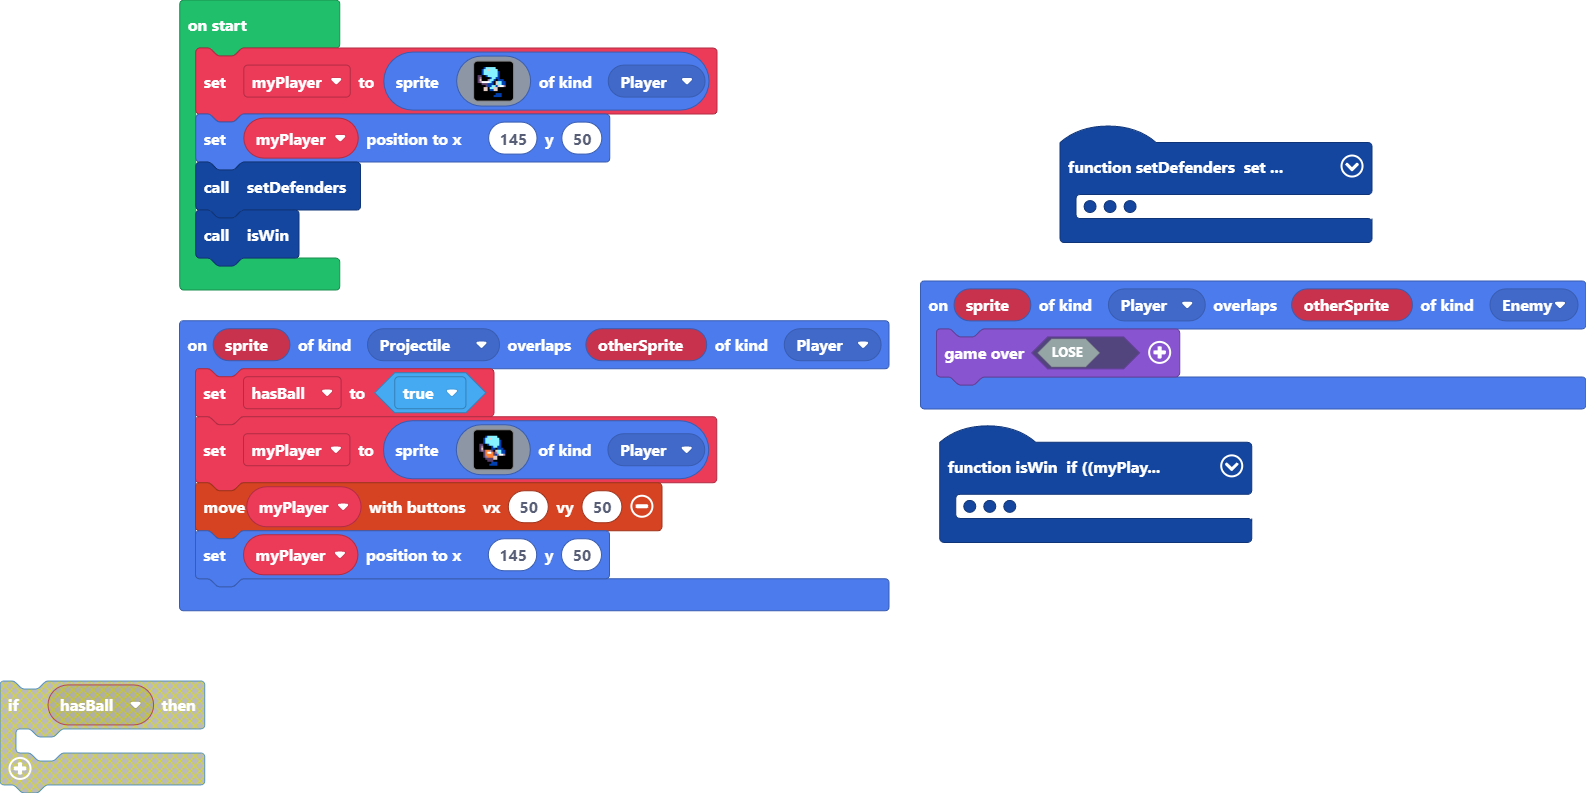
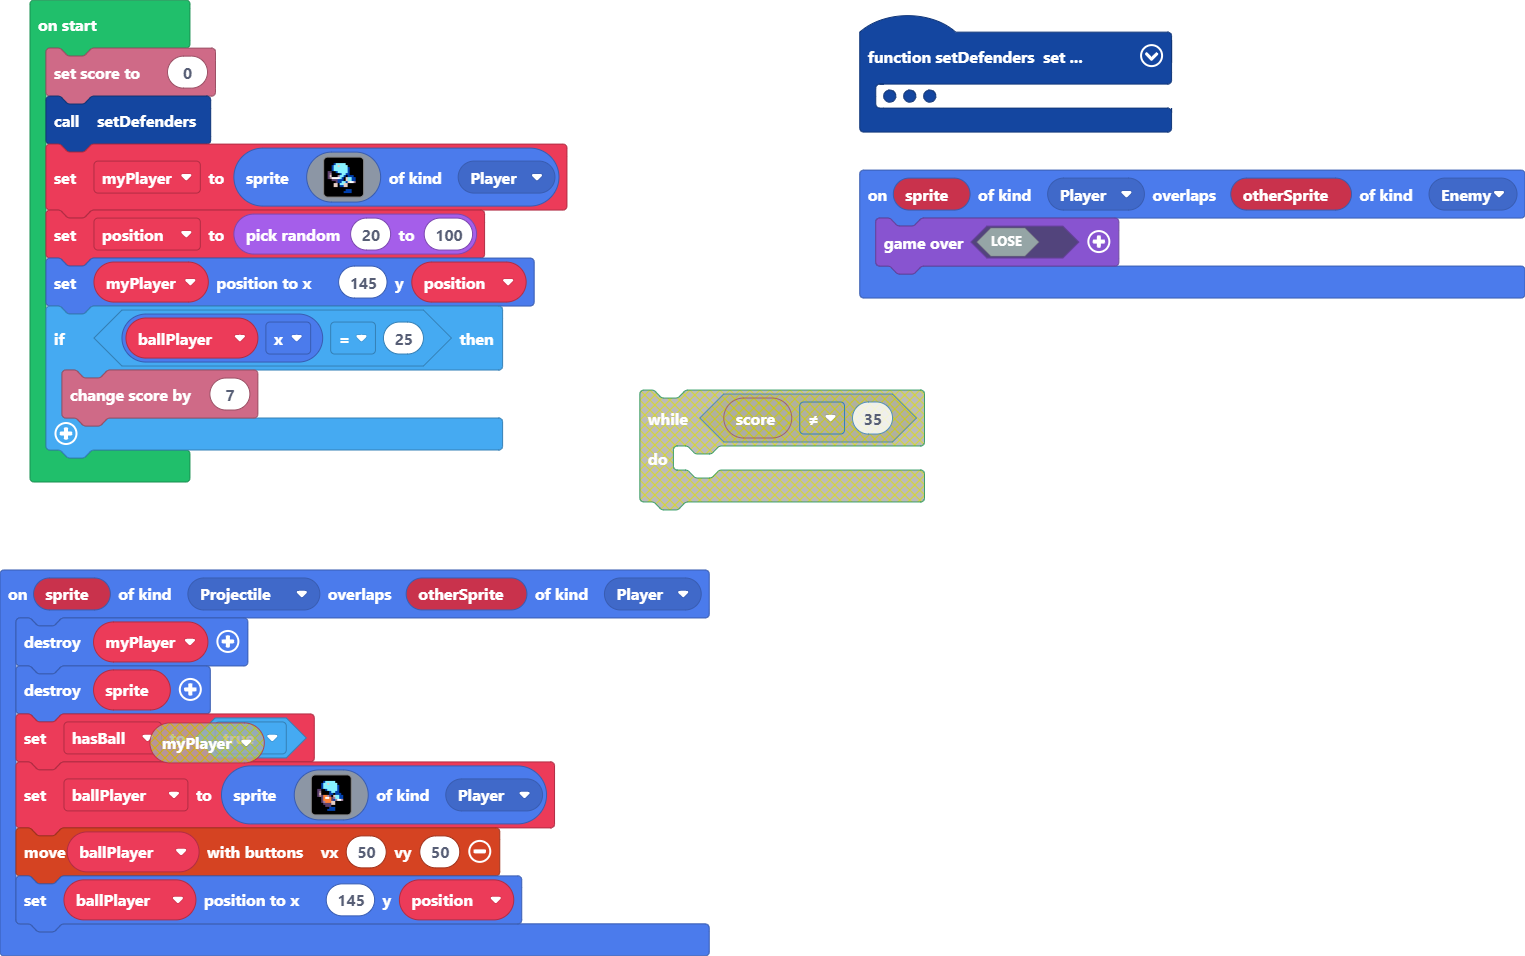
Update main.blocks, main.ts

diff --git a/main.ts b/main.ts
@@ -1,6 +1,8 @@
 sprites.onOverlap(SpriteKind.Projectile, SpriteKind.Player, function (sprite, otherSprite) {
+    myPlayer.destroy()
+    sprite.destroy()
     hasBall = true
-    myPlayer = sprites.create(img`
+    ballPlayer = sprites.create(img`
         . . . . . . . . . . . . . . . . 
         . . . . 8 9 9 9 9 9 . . . . . . 
         . . . 8 9 9 d 9 9 9 9 . . . . . 
@@ -18,8 +20,8 @@ sprites.onOverlap(SpriteKind.Projectile, SpriteKind.Player, function (sprite, ot
         . . . . . . . 8 8 8 . . . . f f 
         . . . . . . 8 8 8 8 . . . . . . 
         `, SpriteKind.Player)
-    controller.moveSprite(myPlayer, 50, 50)
-    myPlayer.setPosition(145, 50)
+    controller.moveSprite(ballPlayer, 50, 50)
+    ballPlayer.setPosition(145, position)
 })
 function setDefenders () {
     obstacle1 = sprites.create(img`
@@ -86,11 +88,6 @@ function setDefenders () {
     obstacle3.vy = randint(20, 40)
     obstacle3.setBounceOnWall(true)
 }
-function isWin () {
-    if (myPlayer.x == 25) {
-        game.over(true)
-    }
-}
 sprites.onOverlap(SpriteKind.Player, SpriteKind.Enemy, function (sprite, otherSprite) {
     game.over(false)
 })
@@ -98,7 +95,11 @@ let obstacle3: Sprite = null
 let obstacle2: Sprite = null
 let obstacle1: Sprite = null
 let hasBall = false
+let ballPlayer: Sprite = null
+let position = 0
 let myPlayer: Sprite = null
+info.setScore(0)
+setDefenders()
 myPlayer = sprites.create(img`
     . . . . . . . . . . . . . . . . 
     . . . 8 9 9 9 9 9 . . . . . . . 
@@ -117,6 +118,8 @@ myPlayer = sprites.create(img`
     . . . . . . . f f 8 8 8 . . . . 
     . . . . . . f f 8 8 8 8 . . . . 
     `, SpriteKind.Player)
-myPlayer.setPosition(145, 50)
-setDefenders()
-isWin()
+position = randint(20, 100)
+myPlayer.setPosition(145, position)
+if (ballPlayer.x == 25) {
+    info.changeScoreBy(7)
+}
